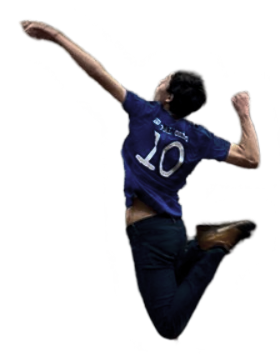
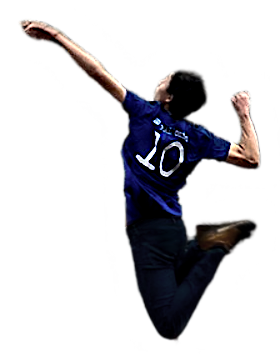
SnapshotX

Changed region(s): [[0.4286, 0.1864, 0.7714, 0.6525], [0.0571, 0.0621, 0.4857, 0.3107], [0.7714, 0.2486, 0.9429, 0.4972]]

diff --git a/styles.css b/styles.css
@@ -22,7 +22,8 @@ body.dark {
     --contrast-color: #242526;
     --bg-color: #1a1f1b;
     --text-color: #eee;
-    --search-bar: #242526;
+    --search-bar1: #242526;
+    --search-bar2: #212223;
 }
 body.dark .waves .wave{
     background: url(assets/black-wave.png);
@@ -36,7 +37,8 @@ body.dark .waves .wave{
     --bg-color: #ffffff;
     --text-color: #111;
     --search-text: #010718;
-    --search-bar: #F2F2F2;
+    --search-bar1: #e5eaf0;
+    --search-bar2: #d8e0eb;
 
     /*Responsive*/
     --header-height: 100vh;
@@ -224,8 +226,9 @@ body.dark .dark-light img.moon{
     width: 18.75rem;
     display: flex;
     align-items: center;
-    background-color: var(--contrast-color);
-    padding: 3px;
+    justify-content: space-between;
+    background-color: var(--search-bar1);
+    padding: 8px;
     border-radius: 0.375rem;
     box-shadow: 0 5px 5px rgba(0, 0, 0, 0.1);
     opacity: 0;
@@ -244,27 +247,28 @@ body.dark .dark-light img.moon{
     top: -0.25rem;
     height: 0.75rem;
     width: 0.75rem;
-    background-color: var(--contrast-color);
+    background-color: var(--search-bar2);
     transform: rotate(-45deg);
     z-index: -1;
 }
 .searchbox .search-field input{
     height: auto;
     width: auto;
-    padding: 0 2.813rem 0 0.938rem;
+    flex: 1;
+    padding: 0.3rem 0.5rem;
     outline: none;
     border: none;
     border-radius: 0.25rem;
     font-size: 0.875rem;
     font-weight: 400;
     color: var(--search-text);
-    background-color: var(--search-bar);
+    background-color: var(--search-bar2);
 }
 .searchbox .search-field img{
-    position: absolute;
-    right: 0.938rem;
+    position: relative;
     height: 1.375rem;
     width: 1.375rem;
+    margin: 0 0.5rem;
     cursor: pointer;
 }
 /* HERO SECTION */
@@ -447,6 +451,48 @@ body.dark .dark-light img.moon{
 /* MAIN PAGE */
 .main-page{
     min-height: 100vh;
+}
+.blog{
+    height: 50vh;
+    display: flex;
+    flex-direction: row;
+    align-items: center;
+    justify-content: space-between;
+    padding-inline: 10vw;
+    margin-block: 5rem;
+}
+.blog .blog-txt{
+    max-width: 40vw;
+}
+.blog .blog-txt h2{
+    font: 2rem montserrat;
+}
+.blog .players{
+    width: 40vw;
+    height: 100%;
+    position: relative;
+    overflow: visible;
+}
+.blog .players img{
+    position: absolute;
+    transition: all 0.3s ease-in-out;
+}
+.blog .players .alex{
+    height: 15rem;
+    top: 0;
+    left: 15%;
+}
+.blog .players .david{
+    height: 15rem;
+    bottom: 0;
+    right: 0;
+}
+.blog .players:hover .alex{
+    top: -10%;
+    left: 13%;
+}.blog .players:hover .david{
+    bottom: -2%;
+    right: 2%;
 }
 
 /* RESPONSIVENESS */

diff --git a/index.html b/index.html
@@ -123,12 +123,17 @@ git pull origin main; git add .; git commit -m "SnapshotX"; git push -u origin m
     </section>
 
     <div class="main-page">
-        <div class="blog">
-            <h2>Suivez-nous</h2>
-            <p>On s'entraine 40h par semaine pour donner des matchs compétitifs</p>
-            <img src="assets/alex.png" alt="volleyball player flying">
-            <img src="assets/david.png" alt="volleyball posing">
-        </div>
+        <section class="blog">
+            <div class="blog-txt">
+                <h2>Suivez-nous</h2>
+                <p>On s'entraine 40h par semaine pour donner des matchs compétitifs</p>
+            </div>
+
+            <div class="players">
+                <img src="assets/alex.png" alt="volleyball player flying" class="alex">
+                <img src="assets/david.png" alt="volleyball player posing" class="david">
+            </div> 
+        </section>
 
         <div class="shop">
             <img src="assets/jersey.png" alt="maillot de l'équipe">
